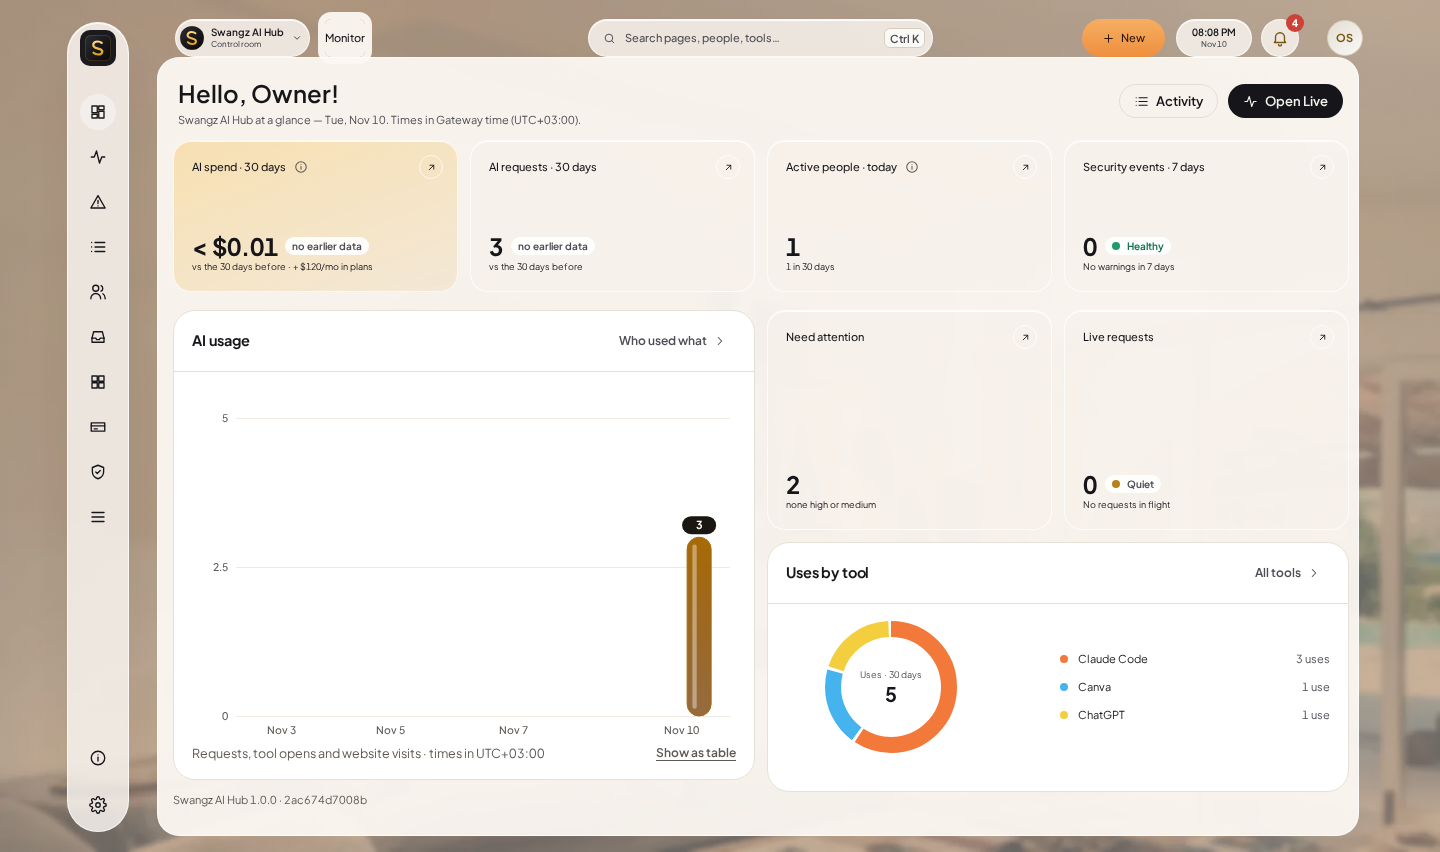
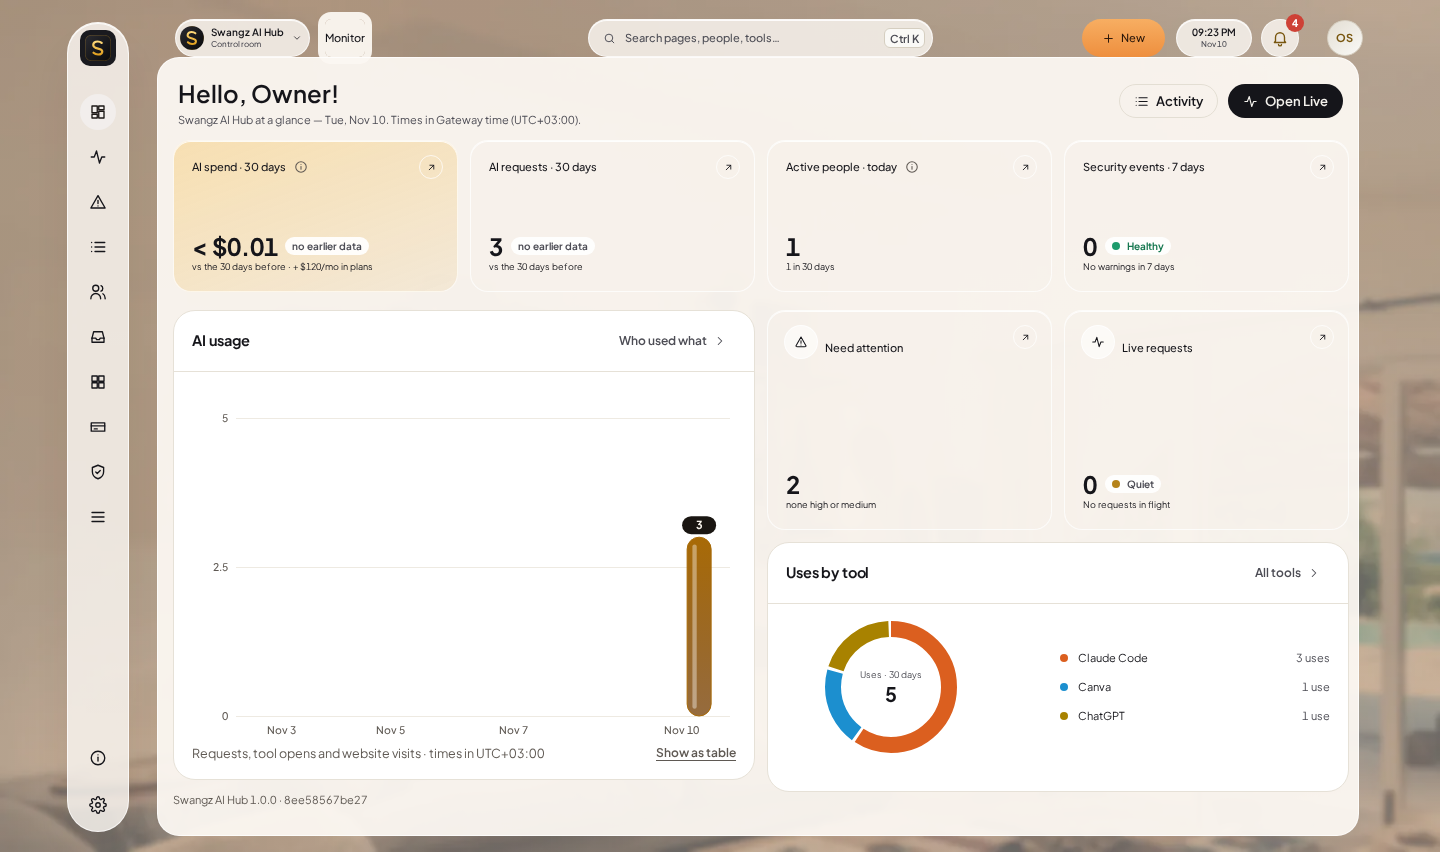
Donut: light-theme arcs reach 3:1, legend rows at the reference pitch, 50% overlay against dashboard-02

diff --git a/gateway/static/ui.css b/gateway/static/ui.css
@@ -437,7 +437,7 @@ html[data-theme="light"] .u-tubes { --tube-a: rgba(70, 56, 40, .46); --tube-b: r
 .u-donut .mid { position: absolute; inset: 0; display: grid; align-content: center; justify-items: center; gap: 1px; }
 .u-donut .mid small { font-size: 9px; line-height: 12px; color: var(--tx-2); }
 .u-donut .mid b { font-size: 20px; line-height: 24px; font-weight: 700; color: var(--tx-1); font-variant-numeric: tabular-nums; }
-.u-donut ul { list-style: none; margin: 0; padding: 0; display: grid; gap: 4px; min-width: 0; }
+.u-donut ul { list-style: none; margin: 0; padding: 0; display: grid; gap: 5px; min-width: 0; align-self: center; }
 .u-donut li { display: grid; grid-template-columns: 8px minmax(0, 1fr) auto; gap: 10px; align-items: center; min-height: 24px; font-size: 11px; }
 .u-donut li i { width: 8px; height: 8px; border-radius: 50%; background: currentColor; }
 .u-donut li a, .u-donut li .nm { min-width: 0; color: var(--tx-1); text-decoration: none; overflow: hidden; text-overflow: ellipsis; white-space: nowrap; }
@@ -445,4 +445,9 @@ html[data-theme="light"] .u-tubes { --tube-a: rgba(70, 56, 40, .46); --tube-b: r
 .u-donut li .val { color: var(--tx-2); font-variant-numeric: tabular-nums; white-space: nowrap; }
 .u-donut .t1 { stroke: #F2793A; color: #F2793A; } .u-donut .t2 { stroke: #45B4EE; color: #45B4EE; } .u-donut .t3 { stroke: #F3CF3F; color: #F3CF3F; }
 .u-donut .t4 { stroke: #EE5C7C; color: #EE5C7C; } .u-donut .t5 { stroke: #3FCB8B; color: #3FCB8B; } .u-donut .t0 { stroke: var(--viz-muted); color: var(--viz-muted); }
+/* Light: the reference has no light still, and its bright arcs fall under 3:1 on porcelain (the yellow measured 1.44:1 on
+   #FCF8F2). Each hue is kept and darkened until arc and legend dot reach 3:1 there: 3.50, 3.38, 3.39, 3.80, 3.40, 3.5. */
+html[data-theme="light"] .u-donut .t1 { stroke: #DB5F1F; color: #DB5F1F; } html[data-theme="light"] .u-donut .t2 { stroke: #1C8FCF; color: #1C8FCF; }
+html[data-theme="light"] .u-donut .t3 { stroke: #A88200; color: #A88200; } html[data-theme="light"] .u-donut .t4 { stroke: #E0456A; color: #E0456A; }
+html[data-theme="light"] .u-donut .t5 { stroke: #1A9A62; color: #1A9A62; } html[data-theme="light"] .u-donut .t0 { stroke: #8A8378; color: #8A8378; }
 @media (max-width: 720px) { .u-donut { grid-template-columns: 112px minmax(0, 1fr); column-gap: 16px; padding-left: 18px; } .u-donut .ring, .u-donut svg { width: 112px; height: 112px; } }

diff --git a/tests/test_static_js.py b/tests/test_static_js.py
@@ -84,6 +84,20 @@ class DonutShareTests(unittest.TestCase):
             [9, [["A", 6, 0.667, 1], [None, 3, 0.333, 0]]],
             [0, []]])
 
+    def test_light_theme_arcs_reach_three_to_one_on_porcelain(self):
+        css = (STATIC / "ui.css").read_text(encoding="utf-8")
+
+        def lum(h):
+            c = [int(h[i:i + 2], 16) / 255 for i in (1, 3, 5)]
+            c = [x / 12.92 if x <= .03928 else ((x + .055) / 1.055) ** 2.4 for x in c]
+            return .2126 * c[0] + .7152 * c[1] + .0722 * c[2]
+
+        found = re.findall(r'html\[data-theme="light"\] \.u-donut \.t(\d) \{ stroke: (#[0-9A-F]{6}); color: \2; \}', css)
+        self.assertEqual(sorted(t for t, _ in found), ["0", "1", "2", "3", "4", "5"])
+        for tone, colour in found:
+            ratio = (lum("#FCF8F2") + .05) / (lum(colour) + .05)
+            self.assertGreaterEqual(ratio, 3.0, "tone %s %s is %.2f:1" % (tone, colour, ratio))
+
     def test_overview_draws_uses_by_tool_as_a_donut_and_keeps_its_empty_state(self):
         source = (STATIC / "admin-monitor.js").read_text(encoding="utf-8")
         self.assertIn('SUI.donut({ label: "Uses by tool over 30 days"', source)

diff --git a/docs/screenshots/overview-donut/README.md b/docs/screenshots/overview-donut/README.md
@@ -21,3 +21,15 @@ ranked bar list; it is now `SUI.donut`. The panel stays where it was (x 767-1349
 - In light the yellow arc on the white panel is likely under 3:1 against its background (not measured). The count
   is in the legend as text, so no information depends on it, but it is a known weak point.
 - No 50% overlay was made. Motion, reduced-transparency and the 4x CPU trace were not run.
+
+## Follow-up (architect review, Nov 10)
+
+- `overlay-50-dashboard-02-dark.png`: this page at 1440×852 dark blended 50% with `stills/dashboard-02.jpg`. The ring
+  sits on the reference ring; the legend is centred on the ring and its rows are at the reference's 29px pitch.
+- The fixture has three tools with uses, so three legend rows are drawn. Up to five are named when the data has five
+  (`donutParts`, tested); rows are never invented to fill the legend.
+- Light theme: the reference arcs were under 3:1 on porcelain `#FCF8F2` (yellow 1.44, green 1.96, blue 2.20, orange
+  2.62; pink 3.07). Light now uses darker arcs of the same hues, computed against `#FCF8F2`: orange `#DB5F1F` 3.50,
+  blue `#1C8FCF` 3.38, yellow `#A88200` 3.39, pink `#E0456A` 3.80, green `#1A9A62` 3.40, other `#8A8378` about 3.5.
+  A test holds each at 3:1 or more. These are computed ratios on the flat panel colour, not sampled from a capture.
+- Dark colours are unchanged and were read from the still by eye.
